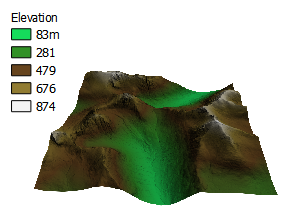
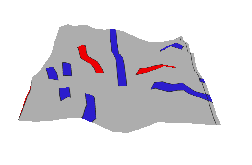
test11

diff --git a/index.html b/index.html
@@ -171,7 +171,7 @@
 				}
 			});
 			 
-			var goatfell = new arranIcons({iconUrl:'mountain.png'}),       // <div>Icons made by <a href="https://www.freepik.com" title="Freepik">Freepik</a> from <a href="https://www.flaticon.com/" title="Flaticon">www.flaticon.com</a></div>
+			var goatfell = new arranIcon({iconUrl:'mountain.png'}),       // <div>Icons made by <a href="https://www.freepik.com" title="Freepik">Freepik</a> from <a href="https://www.flaticon.com/" title="Flaticon">www.flaticon.com</a></div>
 				drumadoonsill = new arranIcon({iconUrl: 'moher-cliffs.png'}), // <div>Icons made by <a href="https://www.freepik.com" title="Freepik">Freepik</a> from <a href="https://www.flaticon.com/" title="Flaticon">www.flaticon.com</a></div>  
 				corriesandstone = new arranIcon({iconUrl: 'zen-rocks-stack.png'}),  // <div>Icons made by <a href="https://www.freepik.com" title="Freepik">Freepik</a> from <a href="https://www.flaticon.com/" title="Flaticon">www.flaticon.com</a></div>
 				glenrosa = new arranIcon({iconUrl: 'river.png'}),                  // <div>Icons made by <a href="https://www.freepik.com" title="Freepik">Freepik</a> from <a href="https://www.flaticon.com/" title="Flaticon">www.flaticon.com</a></div>
@@ -186,7 +186,7 @@
 			L.geoJSON(inner_geofence1).addTo(map); 									// Add inner buffer to map 
 			L.geoJSON(outer_geofence1, {style: myStyle}).addTo(map); 			// Add outer buffer with style 
 			//create content for Goatfell 
-			var g_popupContent = ("<b> Well done! You found Goatfell! </b> <p>Goatfell is the tallest peak on Arran, standing at 874m</p> <img src= 'goatfell_geology.png'/> <p> The mountain is volcanic in origin however the features visible on the map were created by glacial movement. To the east, glacial features such as aretes and corries are visible.</p> <img src= 'glenrosa.jpg'/>")   //Add content using HTML tags 
+			var g_popupContent = ("<b> Well done! You found Goatfell! </b> <p>Goatfell is the tallest peak on Arran, standing at 874m</p> <img src= 'goatfell_hillshade.png'/> <p> The mountain is volcanic in origin however the features visible on the map were created by glacial movement. To the east, glacial features such as aretes and corries are visible.</p> <img src= 'glenrosa.jpg'/>")   //Add content using HTML tags 
 			var g_popup = g.bindPopup(g_popupContent, { 
 				maxWidth: 300, 
 				maxHeight: 400// Makes sure popups accomadate photos 
